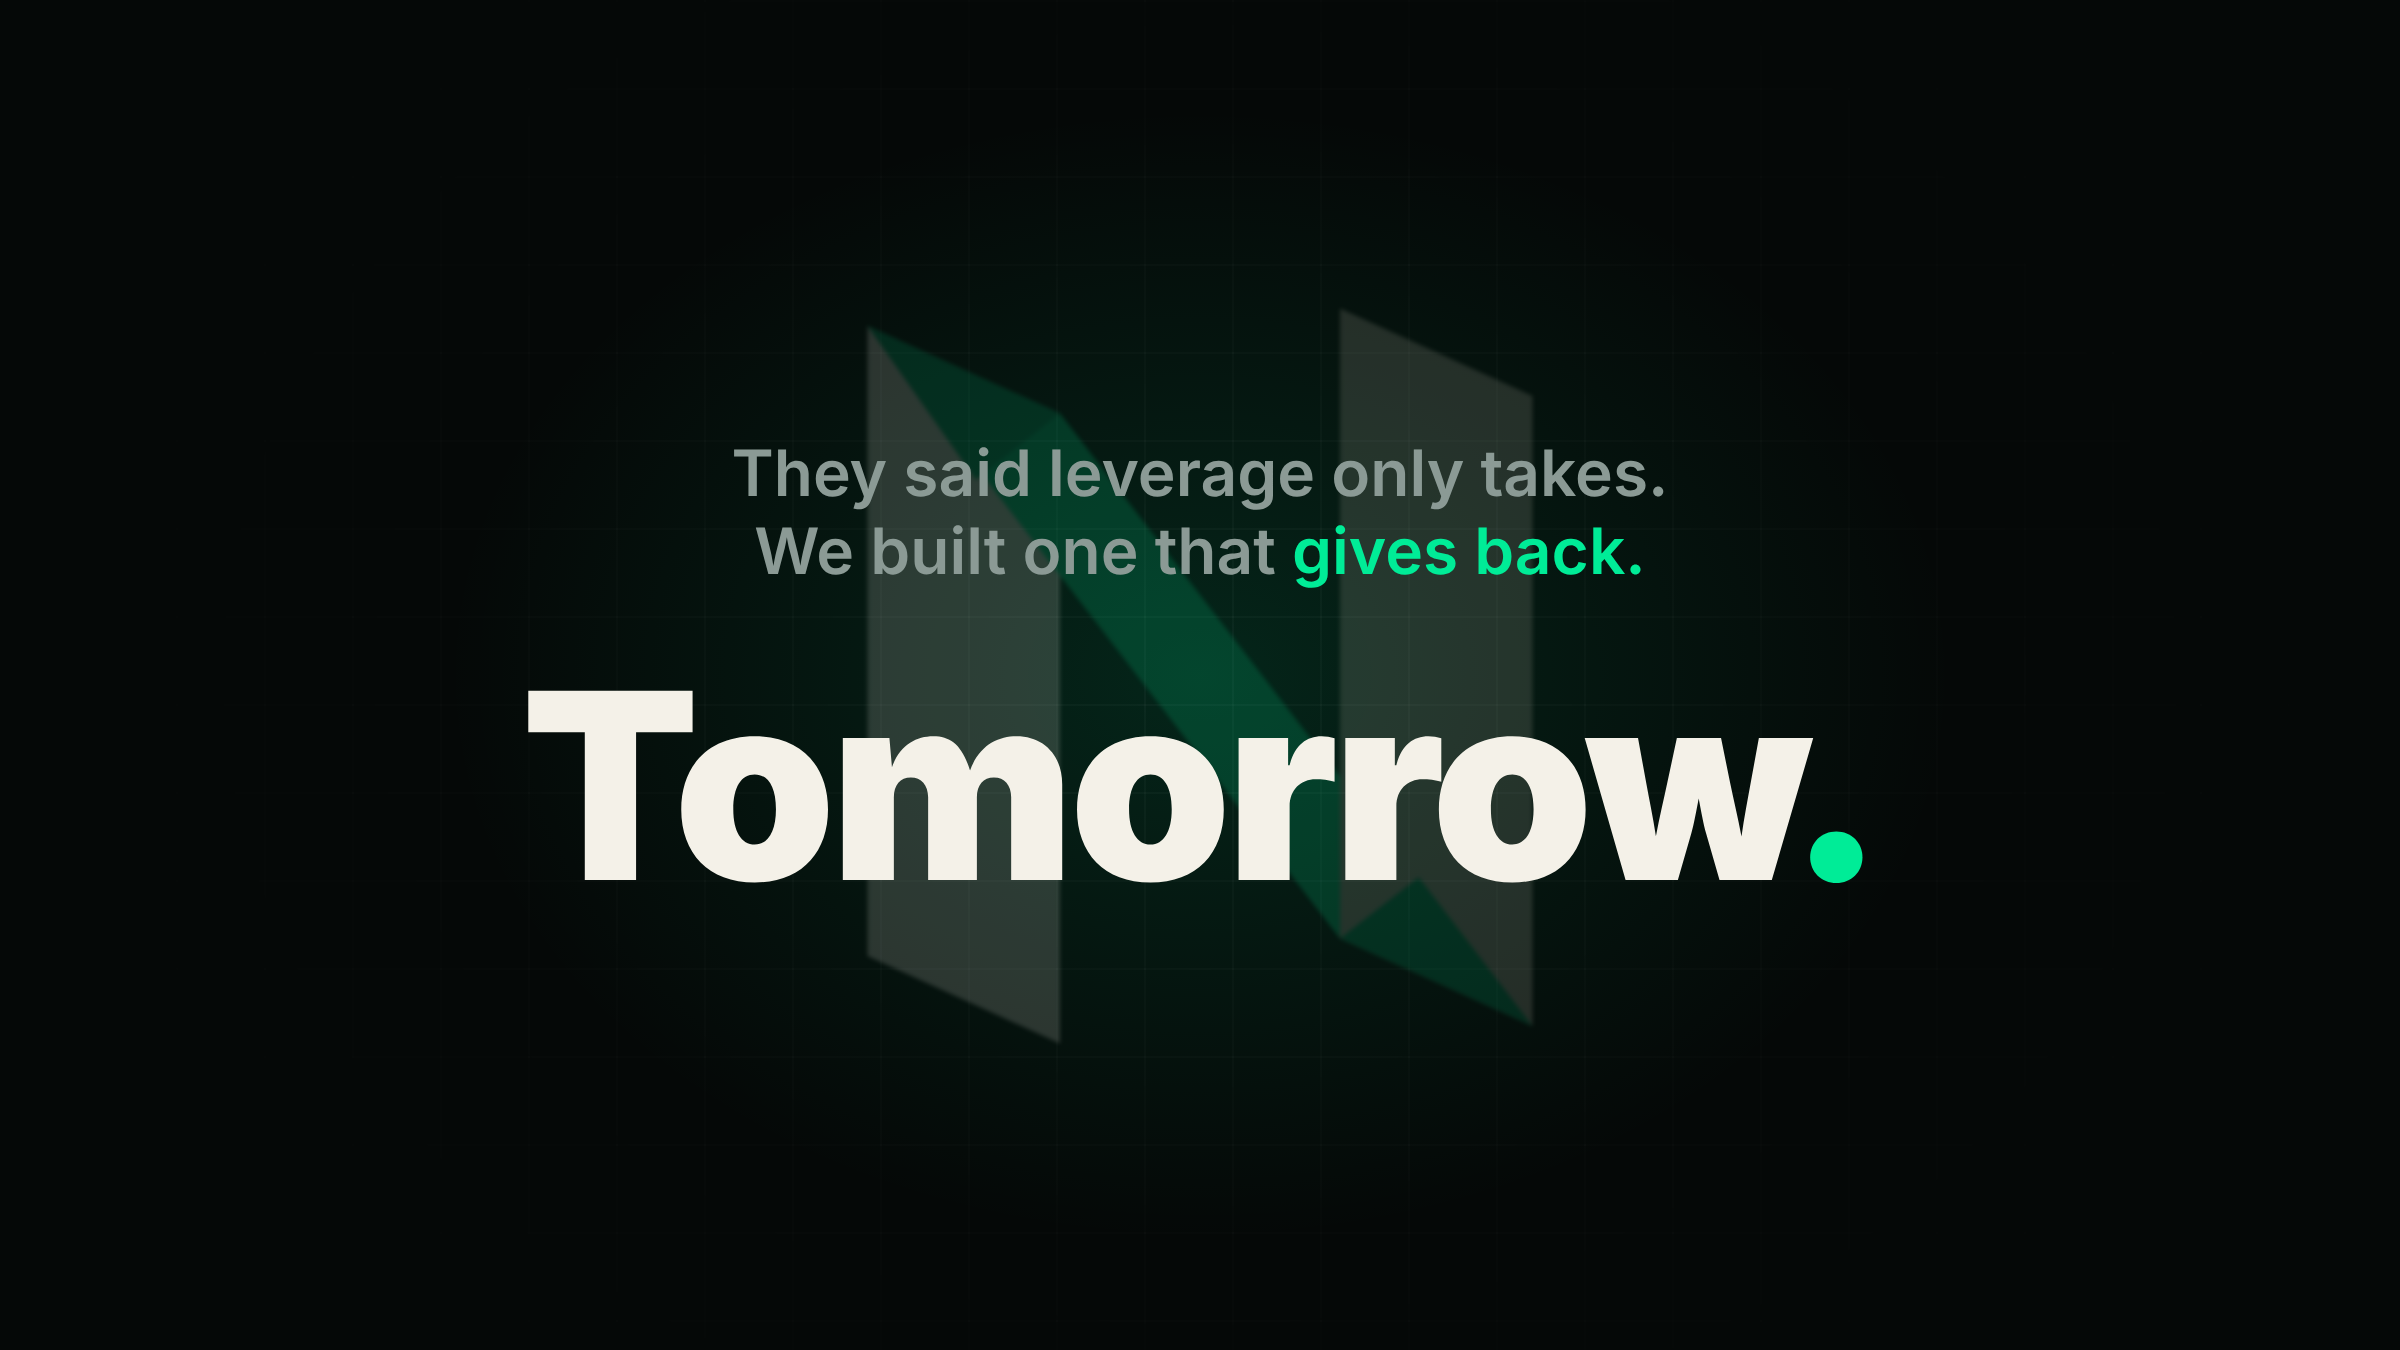
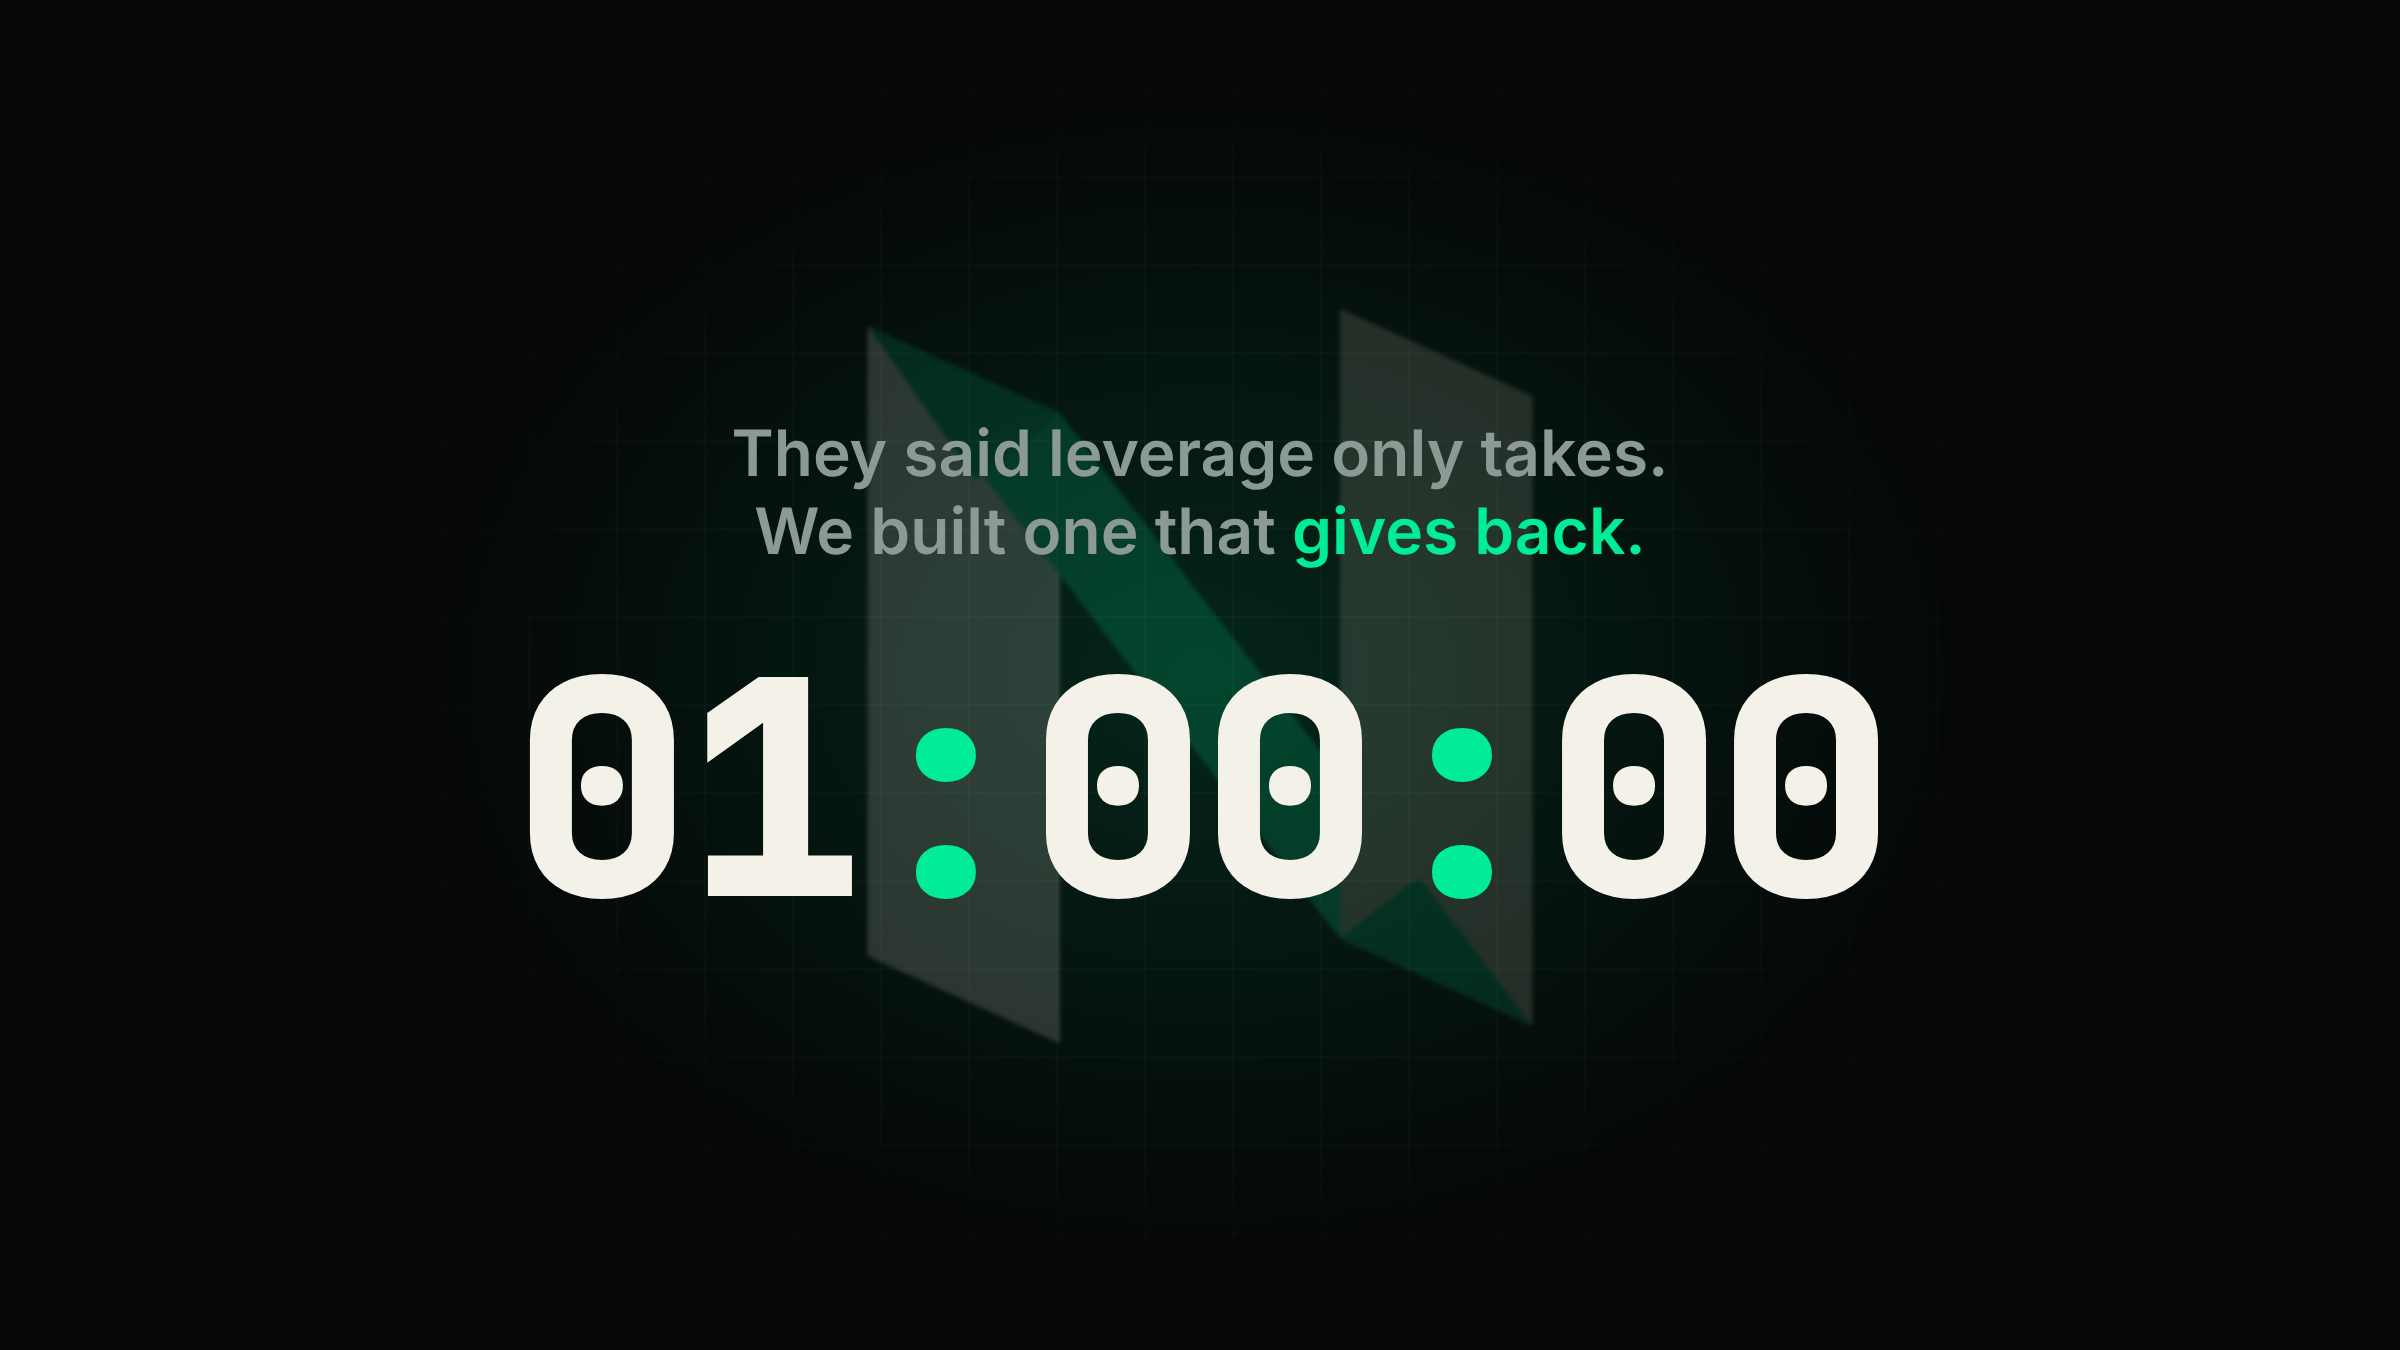
Teaser 3: countdown 01:00:00 instead of Tomorrow
Claude-Session: https://claude.ai/code/session_01JZkxx4ChKpkTxJXxaMjzwn

Changed region(s): [[0.2188, 0.4978, 0.7812, 0.6844], [0.3125, 0.3111, 0.6875, 0.4356]]

diff --git a/brand/tease-3.html b/brand/tease-3.html
@@ -11,4 +11,4 @@ h1 b{color:#00EC97}
 .dot{display:inline-block;width:12px;height:12px;border-radius:50%;background:#00EC97;box-shadow:0 0 18px #00EC97;margin-right:12px;vertical-align:middle}
 </style></head><body><div class="b"><div class="noise"></div><svg class="ghost" width="560" height="560" viewBox="0 0 64 64" style="opacity:.16"><path d="M13 12 L24 17 L24 53 L13 48 Z" fill="#F4F1E8"/><path d="M13 12 L24 17 L51 52 L40 47 Z" fill="#00EC97"/><path d="M13 12 L24 17 L19.2 20.8 Z" fill="#00B877"/><path d="M40 11 L51 16 L51 52 L40 47 Z" fill="#C9C4B5"/><path d="M40 47 L51 52 L44.5 43.5 Z" fill="#00B877"/></svg>
 <div class="c"><div style="font-size:32px;color:#8b9a95;font-weight:600">They said leverage only takes.<br>We built one that <span style="color:#00EC97">gives back.</span></div>
-<h1 style="font-size:130px;margin-top:34px">Tomorrow<b>.</b></h1></div></div></body></html>
+<h1 class="mono" style="font-size:150px;margin-top:34px;letter-spacing:-4px;font-weight:800">01<b>:</b>00<b>:</b>00</h1></div></div></body></html>
